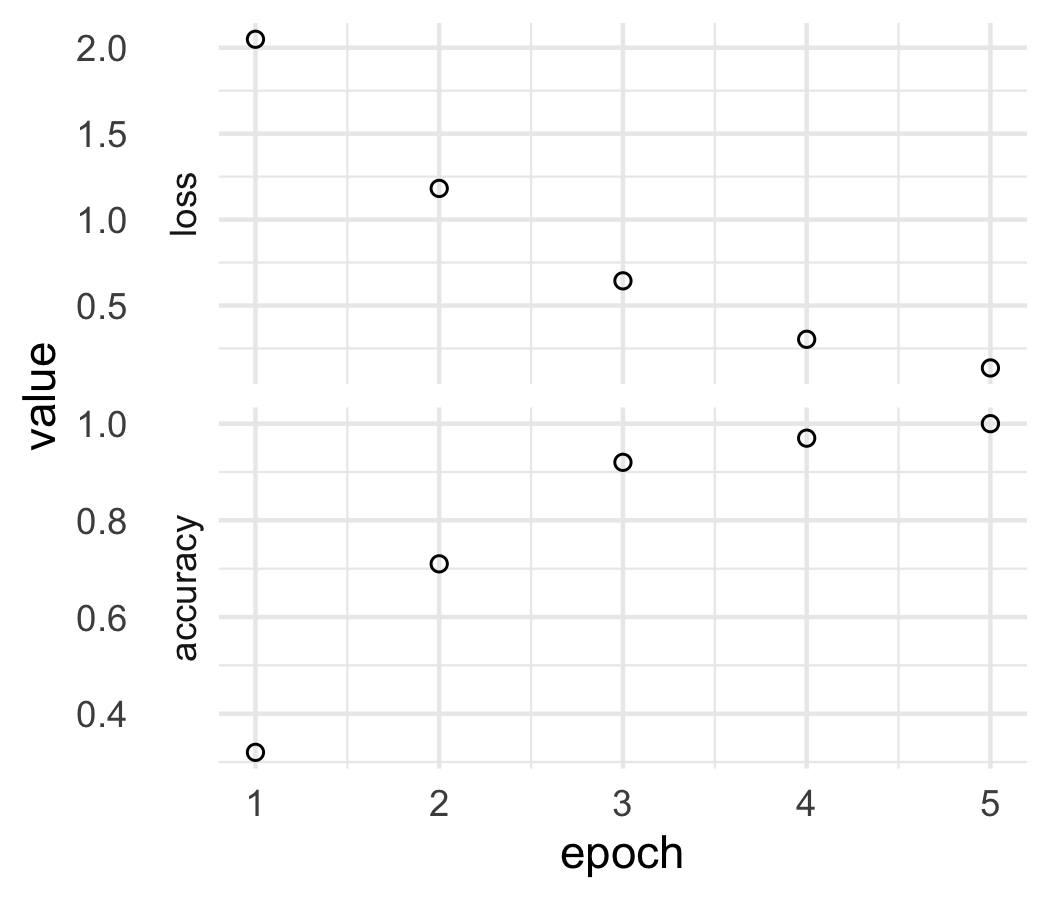
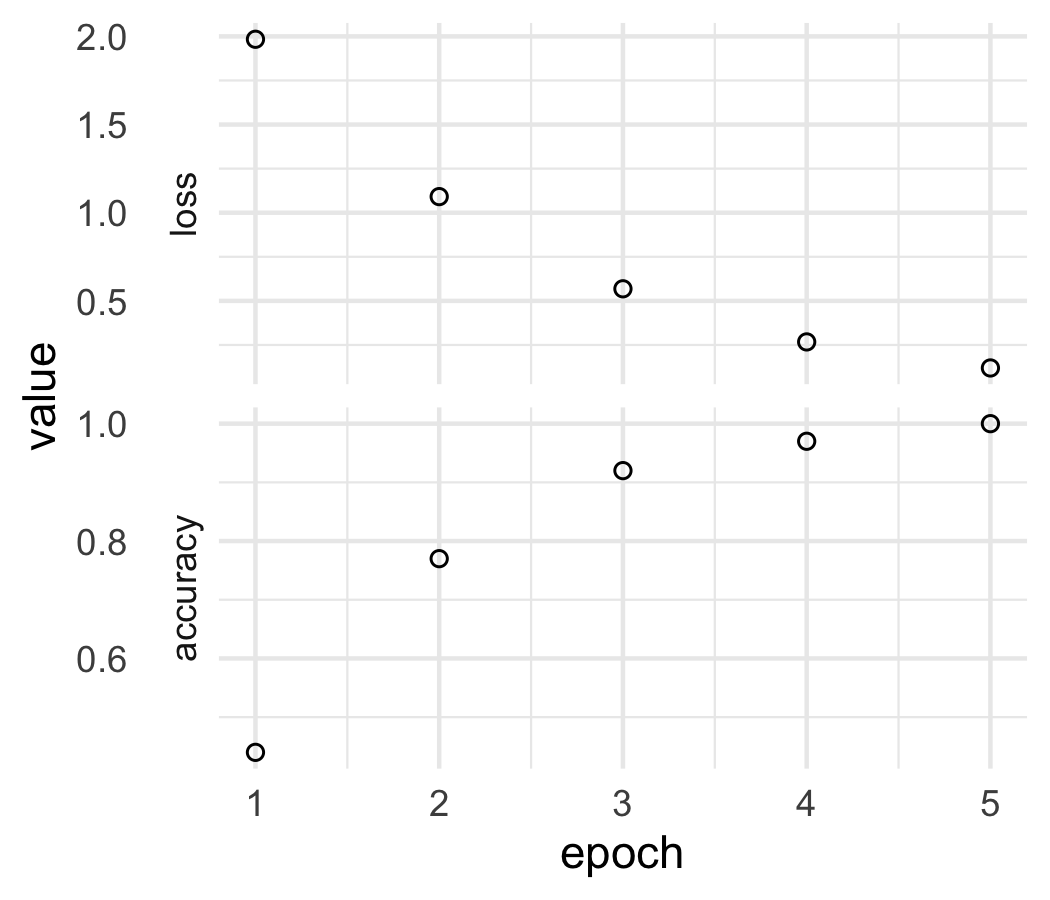
..

diff --git a/_sessions/Deepnets/Deepnets.html b/_sessions/Deepnets/Deepnets.html
@@ -191,7 +191,7 @@ $$    L_{01} = {\begin{cases}{}
 `$$H=\sum_i -y_i \cdot log(a_i^L) - (1-y_i) \cdot log(1-a_i^L)$$`
 &lt;p align="center"&gt;&lt;u&gt;Categorical cross-entropy&lt;/u&gt;&lt;/p&gt;
 
-`$$H=\sum_{i}\sum_{j} -y_{ij} \cdot log(a_{ij}^L) - (1-y_{ij}) \cdot log(1-a_{ij}^L)$$`
+`$$H=\sum_{i}\sum_{j} -y_{ij} \cdot log(a_{ij}^L)$$`
 
 &lt;p align="center"&gt;&lt;u&gt;Mean squared error&lt;/u&gt;&lt;/p&gt;
 
@@ -612,7 +612,8 @@ digit_train[1:18]
 
 ```r
 # reshape &amp; rescale images
-img_train &lt;- array_reshape(img_train, c(nrow(img_train), 784))
+img_train &lt;- array_reshape(img_train, 
+                           c(nrow(img_train), 784))
 img_train &lt;- img_train / 255
 
 # expand criterion
@@ -984,7 +985,7 @@ model %&gt;% evaluate(img_test, digit_test)
 
 ```
 ##     loss accuracy 
-##    0.893    0.700
+##   0.8655   0.7400
 ```
 
 ]
